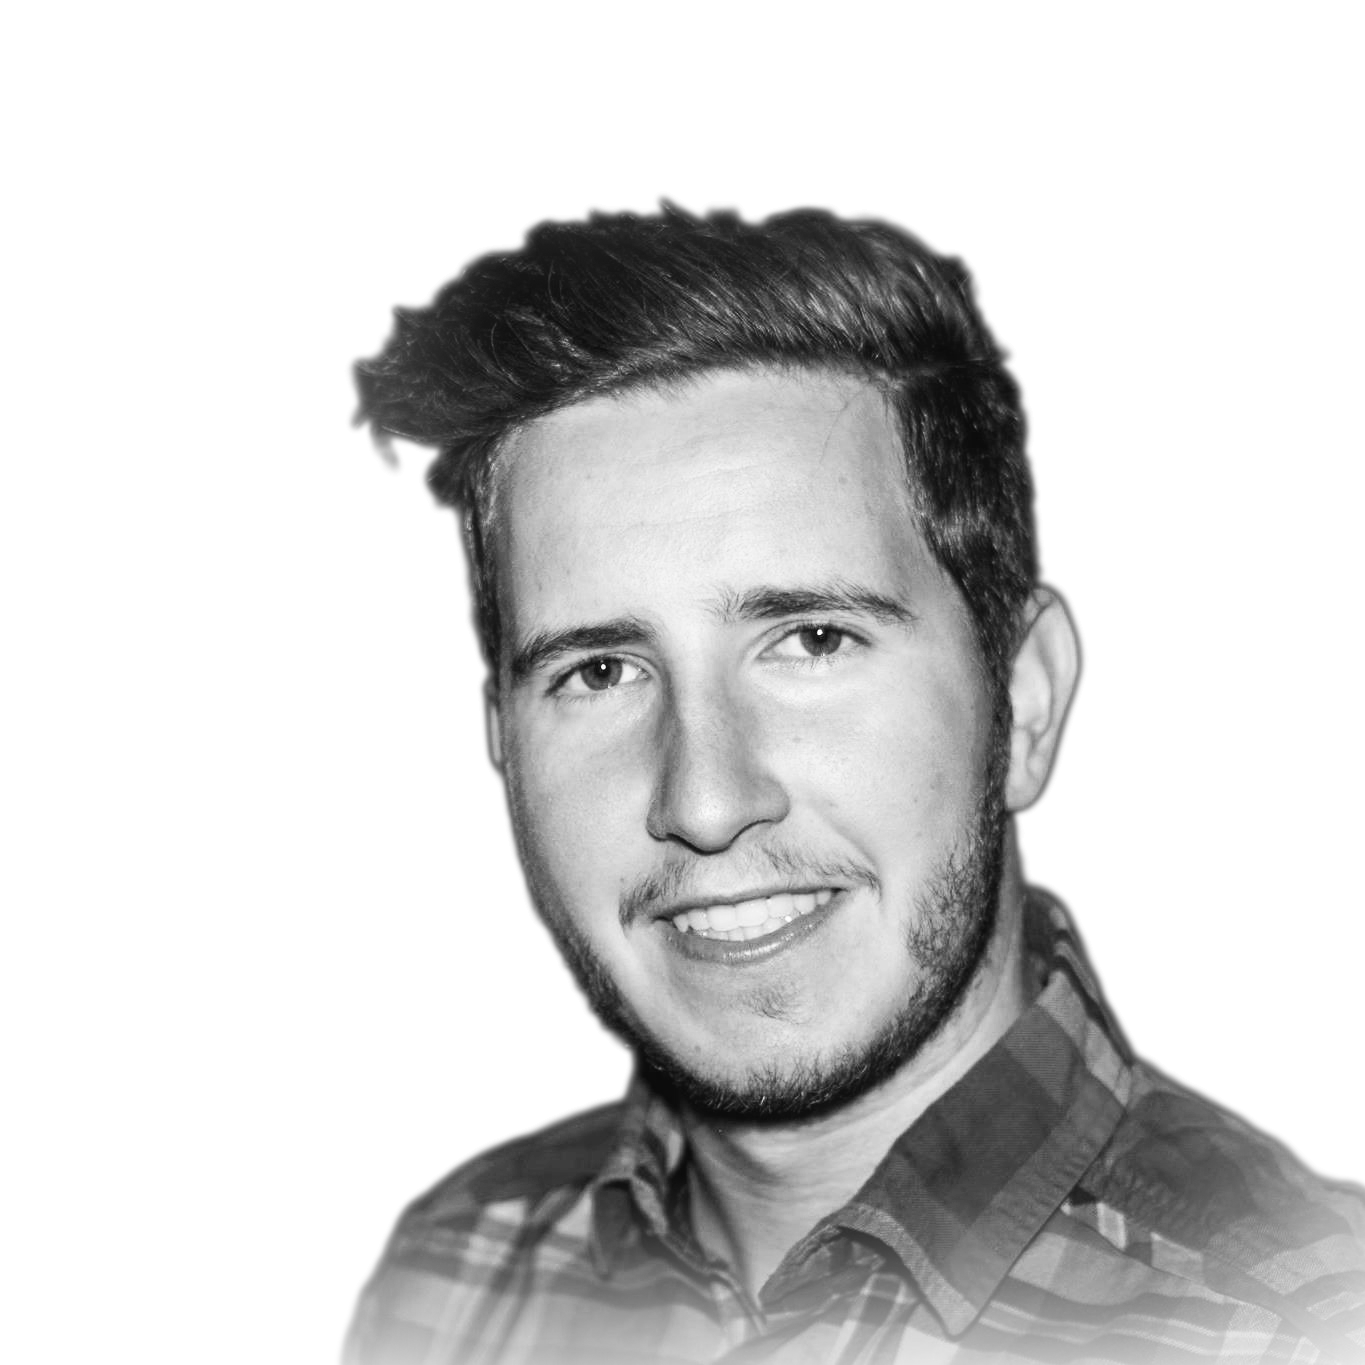
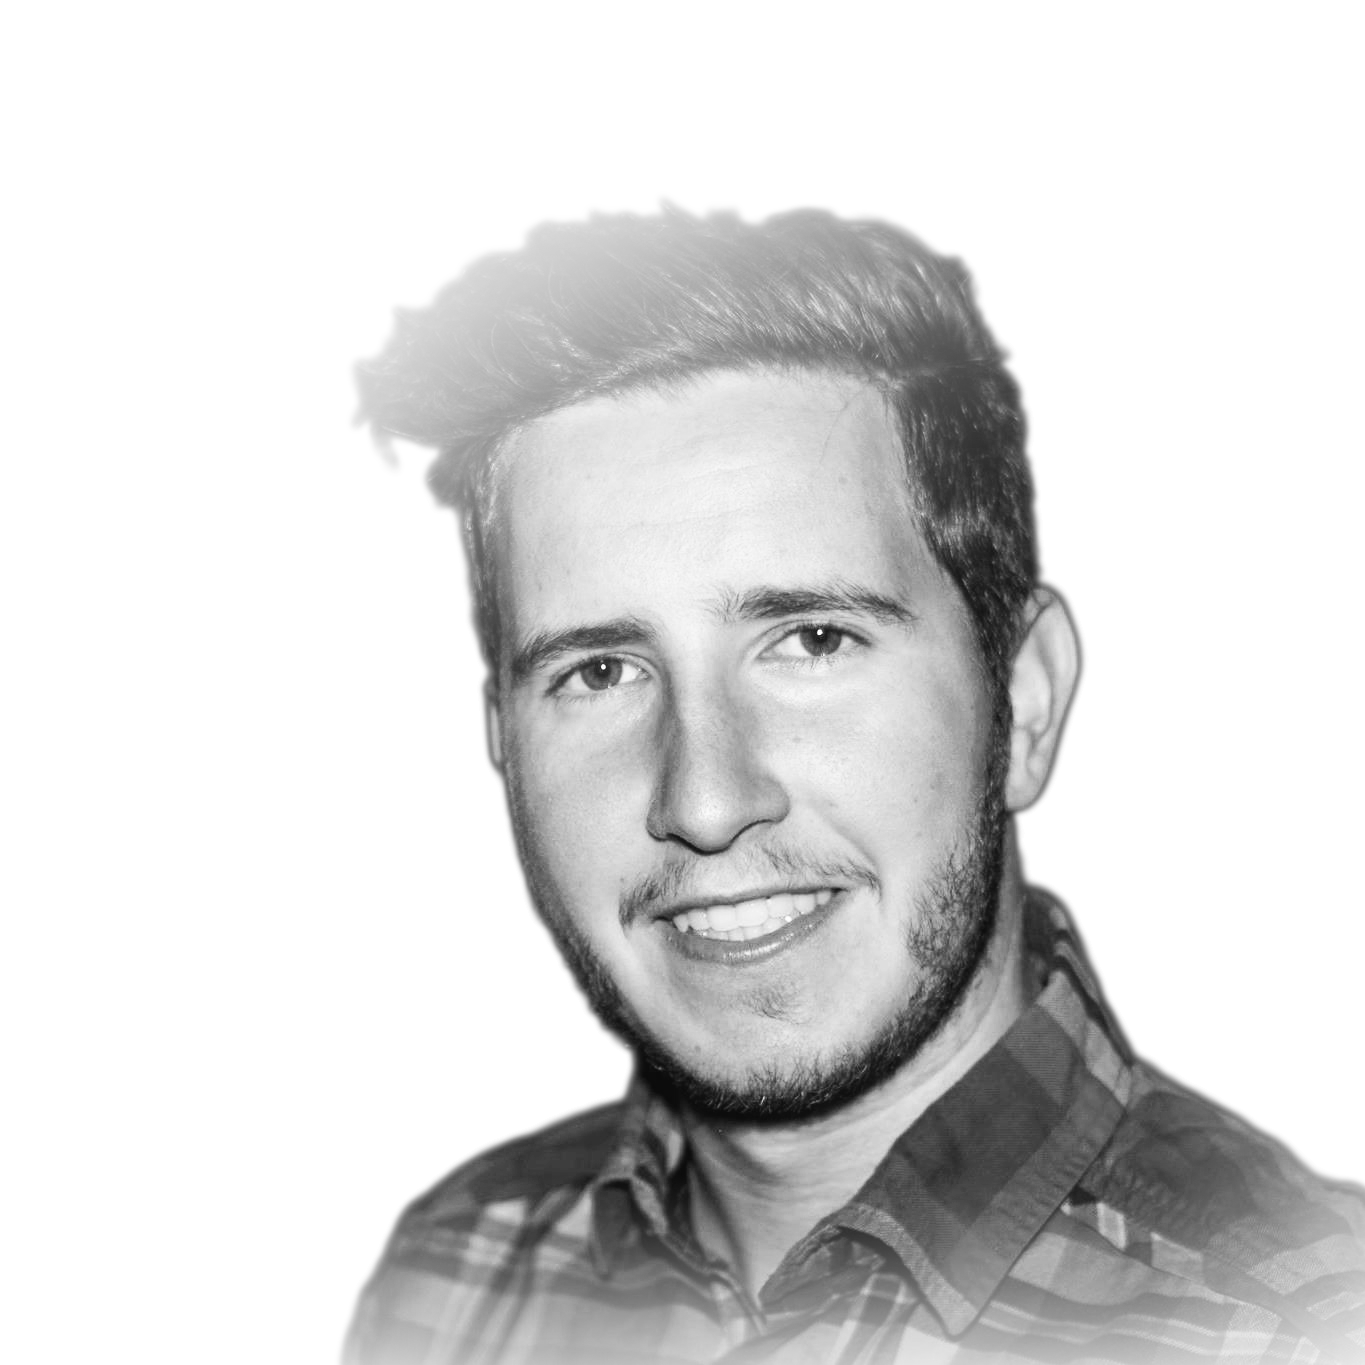
fix double exposure mousemove event

Changed region(s): [[0.2462, 0.1231, 0.7692, 0.4923]]

diff --git a/src/components/Person.vue b/src/components/Person.vue
@@ -9,7 +9,7 @@
             </h1>
         </div>
         <div v-show-slide="featuresOpen" class="features is-family-primary has-text-black">
-            <div class="container-features">
+            <div class="container-features" @mousemove="doubleExpo">
                 <div class="columns columns-head is-mobile">
                     <div class="column is-two-third">
                         <h1 class="title title-o-underline title-o-underline-toggle is-family-secondary not-bold">
@@ -80,15 +80,6 @@ export default {
         }
     },
     mounted () {
-        // document.addEventListener('mousemove', (e) => {
-        //     const x = e.pageX / (window.innerWidth * 10),
-        //             y = e.pageY / (window.innerHeight * 10);
-        //     const bg = document.querySelector('.layerOne');
-        //     let pos1 = -500 * x + 40;
-        //     let pos2 = 500 * y - 5;
-
-        //     bg.style.backgroundPosition = pos1 + '% ' + pos2 + '%';
-        // });
 
         let arrow = document.querySelector('.acc-arrow');
         let bg = document.querySelector('.body-bg');
@@ -117,6 +108,21 @@ export default {
                     bg.classList.remove('pure-bg');
                 }, 400);
             }
+        },
+        doubleExpo (e) {
+            
+            const x = e.pageX / (window.innerWidth * 10),
+                    y = e.pageY / (window.innerHeight * 10);
+            const bg = document.querySelector('.layerOne');
+            let pos1 = -500 * x + 40;
+            let pos2 = 500 * y + 5;
+
+             window.requestAnimationFrame(function(){
+
+                 bg.style.backgroundPosition = pos1 + '% ' + pos2 + '%';
+             });
+
+        
         }
     }
 }

diff --git a/src/assets/main.scss b/src/assets/main.scss
@@ -2213,7 +2213,7 @@ body {
 }
 
 .santoro-logo-tile {
-  background-color: $primary !important;
+  background-color: #ed7e71 !important;
   background-image: url(./santoro-logo-1x.png);
   background-size: contain;
   background-position: 50% 50%;
